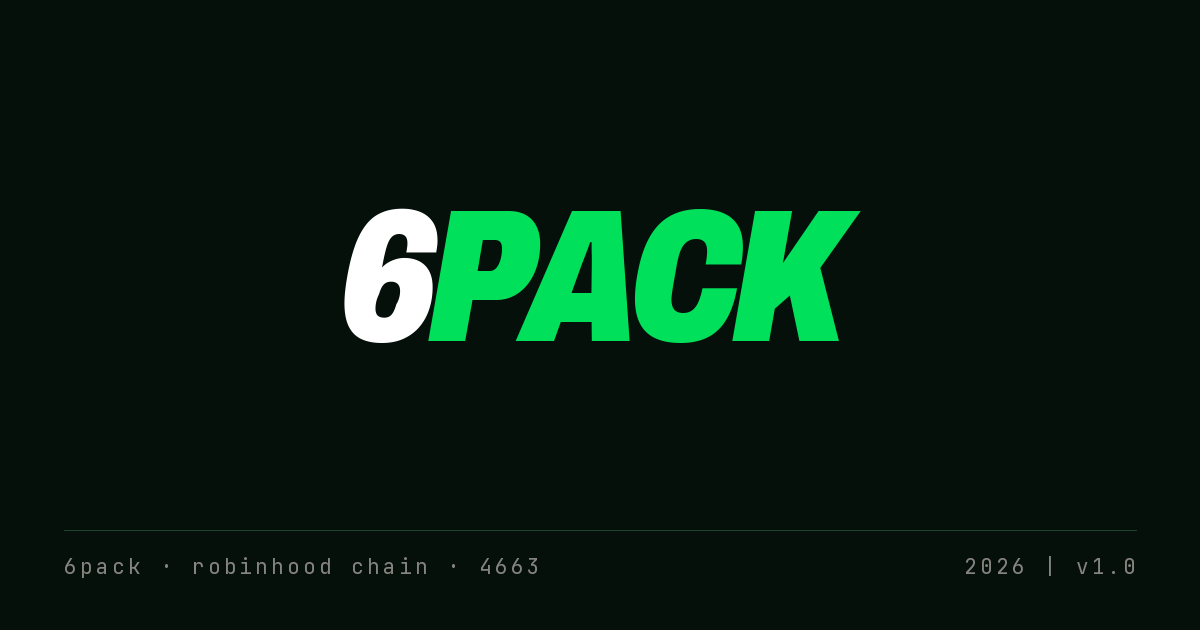
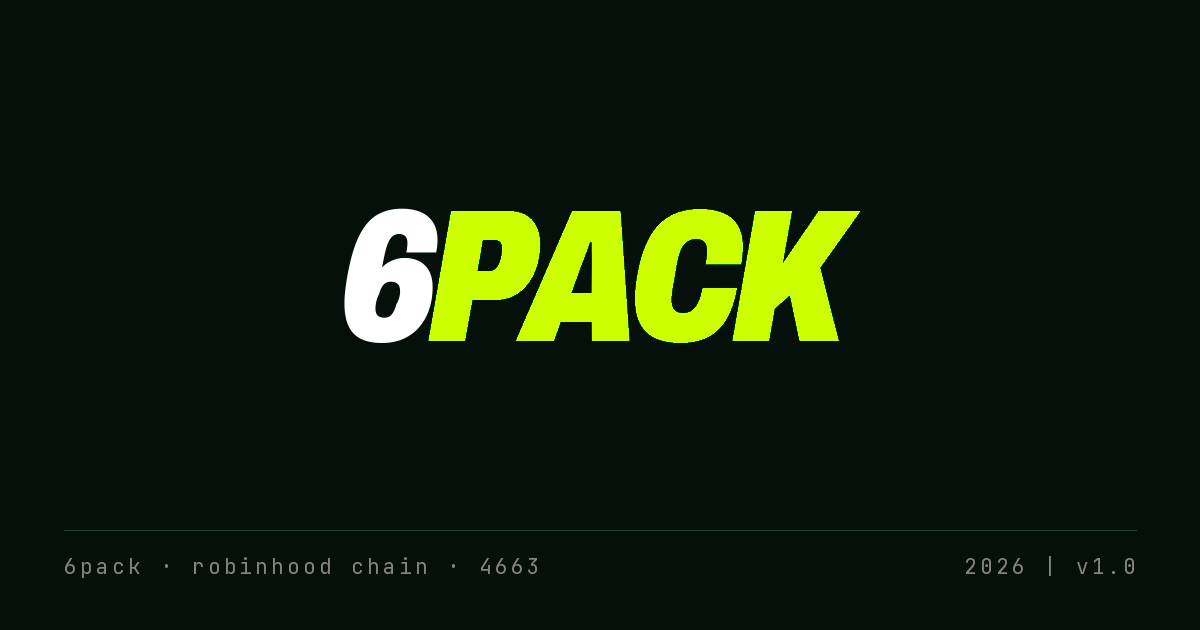
Brand mark: the pack itself, in Robinhood lime #CCFF00
The tab icon was still a letter D from an earlier name, in the old green.
It survived the rename untouched.

The new mark is a render of the same can model the front page animates,
so proportions and the 3x2 arrangement match exactly. The labels carry
the name and the promise instead of coin icons: the basket is rebuilt
every three hours, the mark never is.

The tab icon uses a tighter crop — at 32px the silhouette reads, checked
by rendering it at four sizes.

Changed region(s): [[0.3392, 0.3317, 0.7092, 0.5429]]

diff --git a/index.html b/index.html
@@ -28,7 +28,9 @@
 <meta name="twitter:image" content="https://decima-tsix.vercel.app/og.png">
 <meta name="twitter:image:alt" content="6PACK · Hold 1. Own 6.">
 <meta name="robots" content="noindex, nofollow">
-<link rel="icon" href="favicon.svg">
+<link rel="icon" type="image/png" sizes="32x32" href="/icon-32.png">
+<link rel="icon" type="image/png" sizes="192x192" href="/icon-192.png">
+<link rel="apple-touch-icon" href="/icon-180.png">
 <link rel="preload" href="fonts/21ca8f3f56c22ca2-s.p.14a9xpaqsbppk.woff2" as="font" crossorigin type="font/woff2">
 <link rel="preload" href="fonts/30fd09fbaafebc17-s.p.3go__d1fwqfu8.woff2" as="font" crossorigin type="font/woff2">
 <link rel="preload" href="fonts/70bc3e132a0a741e-s.p.269kn9uafm0ti.woff2" as="font" crossorigin type="font/woff2">

diff --git a/docs/index.html b/docs/index.html
@@ -27,7 +27,9 @@
 <meta name="twitter:image" content="https://decima-tsix.vercel.app/og.png">
 <meta name="twitter:image:alt" content="6PACK · Docs">
 <meta name="robots" content="noindex, nofollow">
-<link rel="icon" href="../favicon.svg">
+<link rel="icon" type="image/png" sizes="32x32" href="/icon-32.png">
+<link rel="icon" type="image/png" sizes="192x192" href="/icon-192.png">
+<link rel="apple-touch-icon" href="/icon-180.png">
 <link rel="preload" href="../fonts/21ca8f3f56c22ca2-s.p.14a9xpaqsbppk.woff2" as="font" crossorigin type="font/woff2">
 <link rel="preload" href="../fonts/70bc3e132a0a741e-s.p.269kn9uafm0ti.woff2" as="font" crossorigin type="font/woff2">
 <link rel="stylesheet" href="../css/base.css?v=2">
